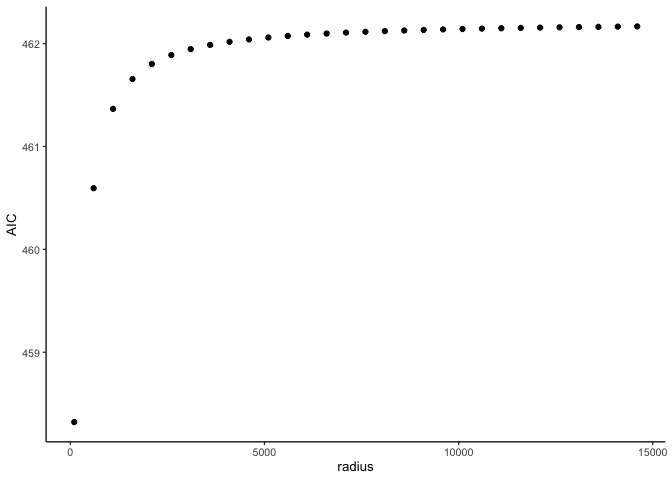
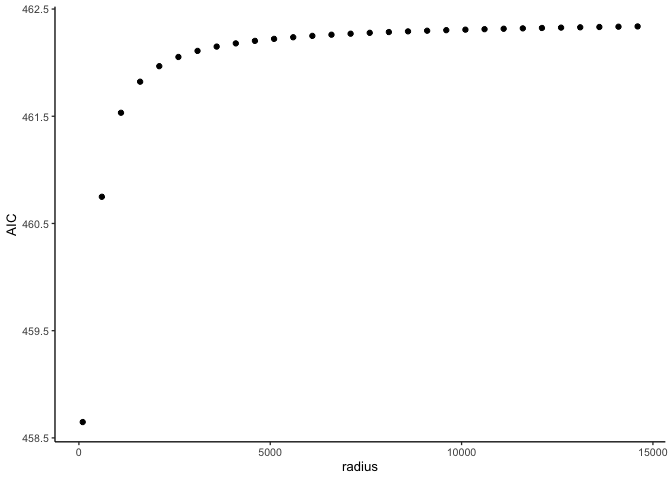
re-run with b = 0.5

diff --git a/code/exploration/2023-01-23_choose-alpha-value.md b/code/exploration/2023-01-23_choose-alpha-value.md
@@ -10,7 +10,7 @@ values. *r* is the average migration distance of our seed predator and
 
 **Connectivity**  
 
-$$C_{i} = \sum_{j \neq i} exp( -\ \alpha \ dist_{ji} ) A_{j}$$
+$$S_{i} = \sum_{j \neq i} exp( -\ \alpha \ dist_{ji} ) A_{j}^{b}$$
 
 ``` r
 library("tidyverse")
@@ -18,9 +18,9 @@ library("tidyverse")
 
     ## ── Attaching packages ─────────────────────────────────────── tidyverse 1.3.1 ──
 
-    ## ✔ ggplot2 3.4.1     ✔ purrr   0.3.4
+    ## ✔ ggplot2 3.4.1     ✔ purrr   1.0.1
     ## ✔ tibble  3.1.8     ✔ dplyr   1.1.0
-    ## ✔ tidyr   1.2.0     ✔ stringr 1.5.0
+    ## ✔ tidyr   1.3.0     ✔ stringr 1.5.0
     ## ✔ readr   2.0.2     ✔ forcats 0.5.1
 
     ## ── Conflicts ────────────────────────────────────────── tidyverse_conflicts() ──
@@ -182,7 +182,7 @@ focal_jacc %>%
   distinct(tree_id) %>%
   pull(tree_id) -> focal_tree_id_list
 
-tibble(radii = seq(25, 125, 5)) -> radii_list
+tibble(radii = seq(50, 150, 5)) -> radii_list
 
 lapply(radii_list, function(x) 1 / x ) -> alpha_list
 
@@ -190,10 +190,9 @@ merge(focal_tree_id_list, alpha_list) %>%
   rename(id = x, alpha = radii) -> alpha_tree_id
 
 calculate_connectivity <- function (data, id, alpha) {
-  data %>%
-    filter(tree_id != eval(parse(text = id))) %>%
+  data[data$tree_id != eval(id),] %>% 
     select(id, crown_area_m2) %>%
-    mutate(x = exp(- alpha * eval(parse(text = id)) ) * crown_area_m2) %>%
+    mutate(x = exp(- alpha * eval(parse(text = id)) ) * crown_area_m2^(0.5)) %>%
     summarise(connectivity = sum(x),
               tree_id = paste(id),
               alpha = eval(parse(text = paste0(alpha))))
@@ -251,12 +250,16 @@ lapply(models, AIC) -> AIC_list
 tibble(radius = unlist(radii_list), AIC = unlist(AIC_list)) -> AIC_df
 
 AIC_df %>%
-  ggplot(aes(x = radius, y = AIC)) + geom_point()
+  ggplot(aes(x = radius, y = AIC)) + 
+  geom_point() +
+  xlab("buffer radius (m)") +
+  geom_vline(xintercept = AIC_df %>% slice(which.min(AIC)) %>% pluck(1,1), 
+             linetype = 2, colour = "red")
 ```
 
 ![](figures/2023-01-23_choose-alpha-value/unnamed-chunk-6-1.png)<!-- -->
 
-A radius of **85** has the lowest AIC.
+A radius of **120** has the lowest AIC.
 
 I just want to check that we’re not missing something by not looking at
 bigger radii. We don’t know how far our seed predator or pollinators
